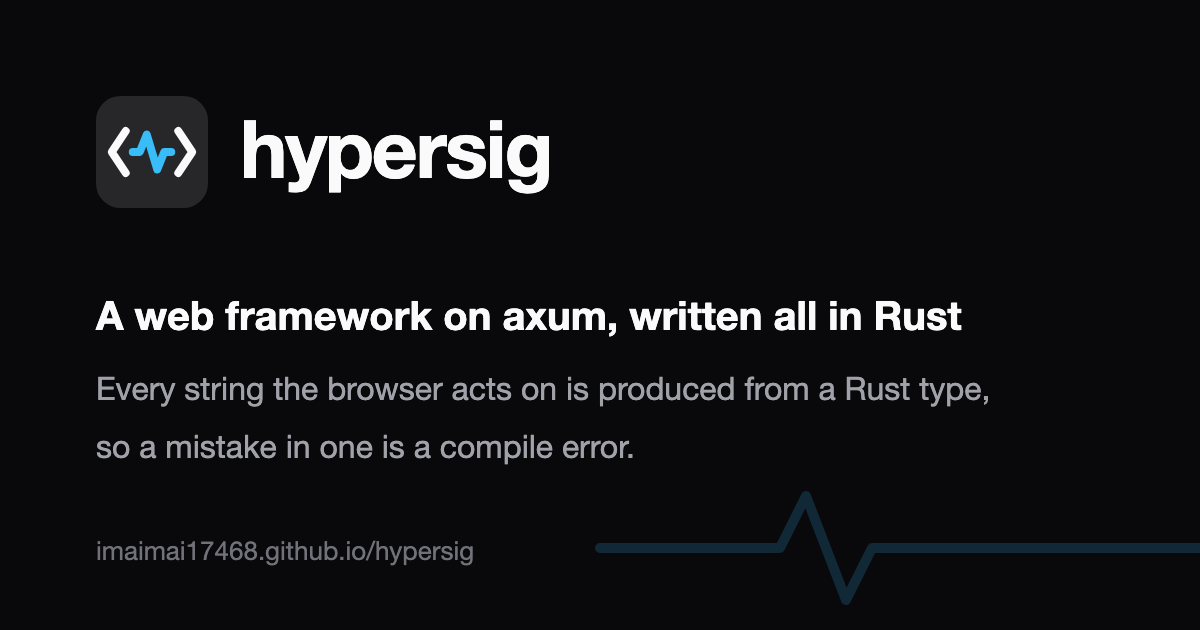
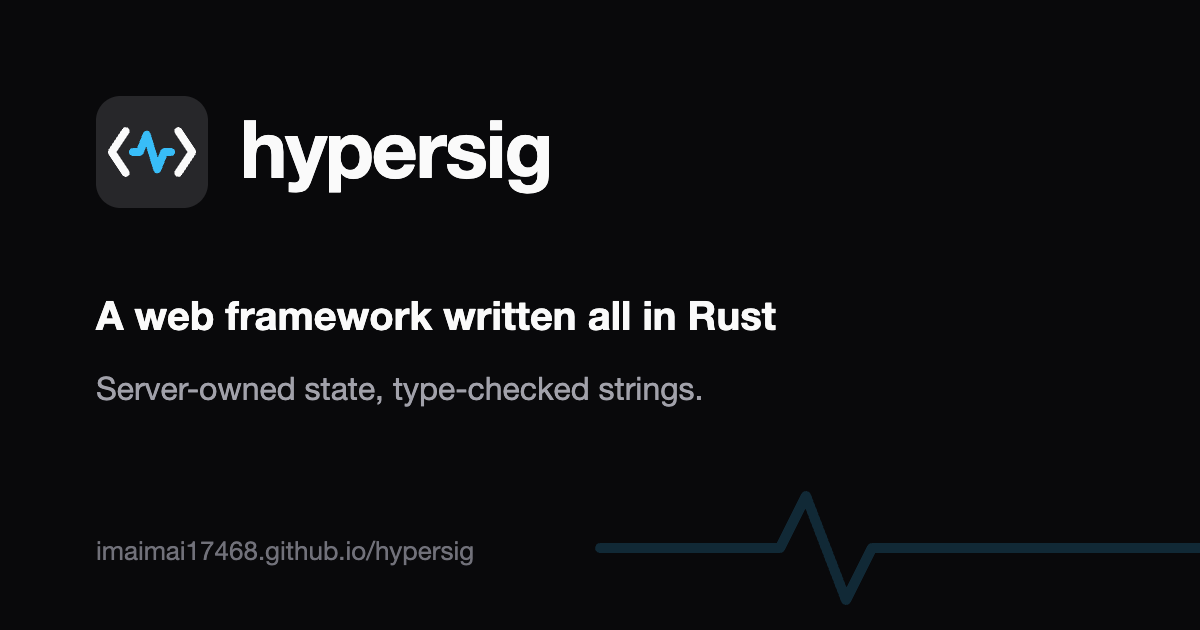
docs: リンクのプレビューの画像の文言を、短い 2 行に書き直す
2 行目は「Rust だけで書く Web フレームワーク」（英語は A web framework written all in Rust）、
3 行目は「サーバーが状態を、型が正しさを。」（Server-owned state, type-checked strings.）にした。
状態をサーバーが持つことと、型で書き間違いを防ぐことを 1 行で並べる。PNG は AGENTS.md の
Chrome のコマンドで SVG から描き直した。

Claude-Session: https://claude.ai/code/session_017nQsL7Q1DYV1GXmbHQTypw

Changed region(s): [[0.37, 0.4825, 0.8017, 0.5429], [0.0617, 0.6032, 0.8325, 0.6635], [0.0617, 0.6937, 0.5242, 0.754]]

diff --git a/site/src/layout.rs b/site/src/layout.rs
@@ -58,8 +58,8 @@ pub fn document(site: Site, doc: Doc, body: Part) -> String {
             origin,
             format!("/{}", crate::og_image(site.lang()).0),
             site.t(L {
-                en: "hypersig, a web framework on axum written all in Rust",
-                ja: "hypersig、Rust だけで書く axum の上の Web フレームワーク",
+                en: "hypersig, a web framework written all in Rust: server-owned state, type-checked strings",
+                ja: "hypersig、Rust だけで書く Web フレームワーク。サーバーが状態を、型が正しさを。",
             }),
         );
         for &lang in Lang::ALL {
